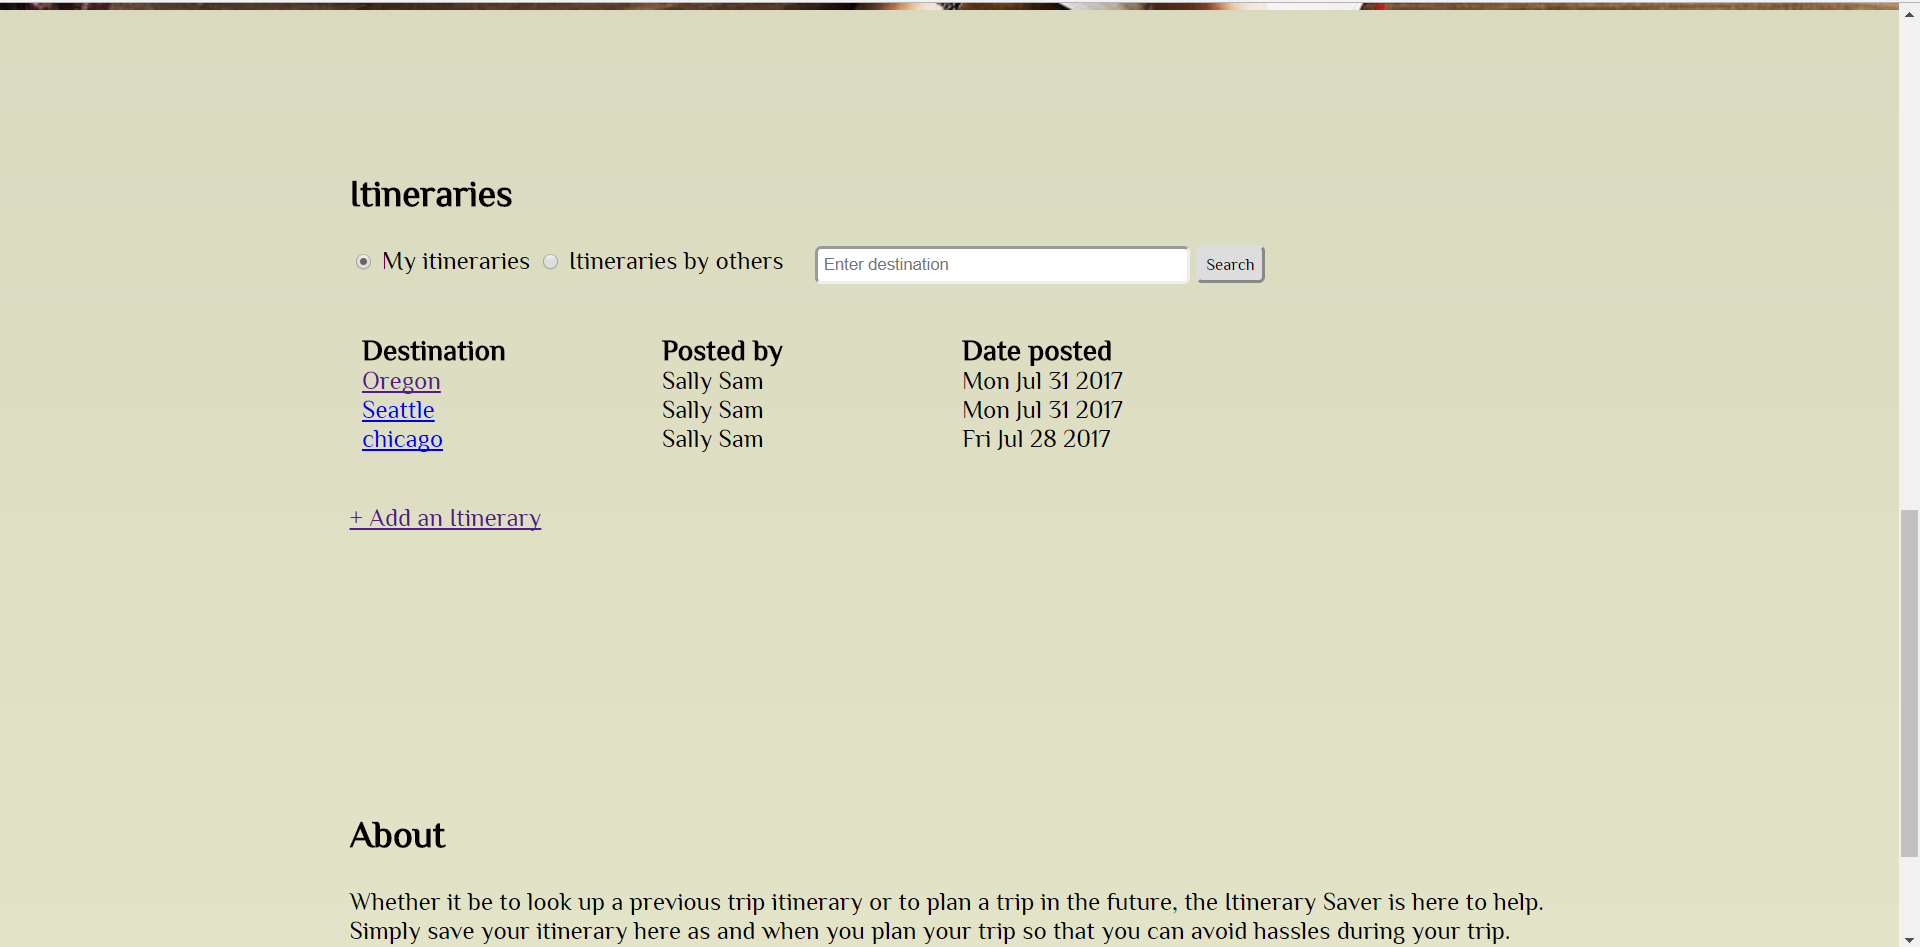
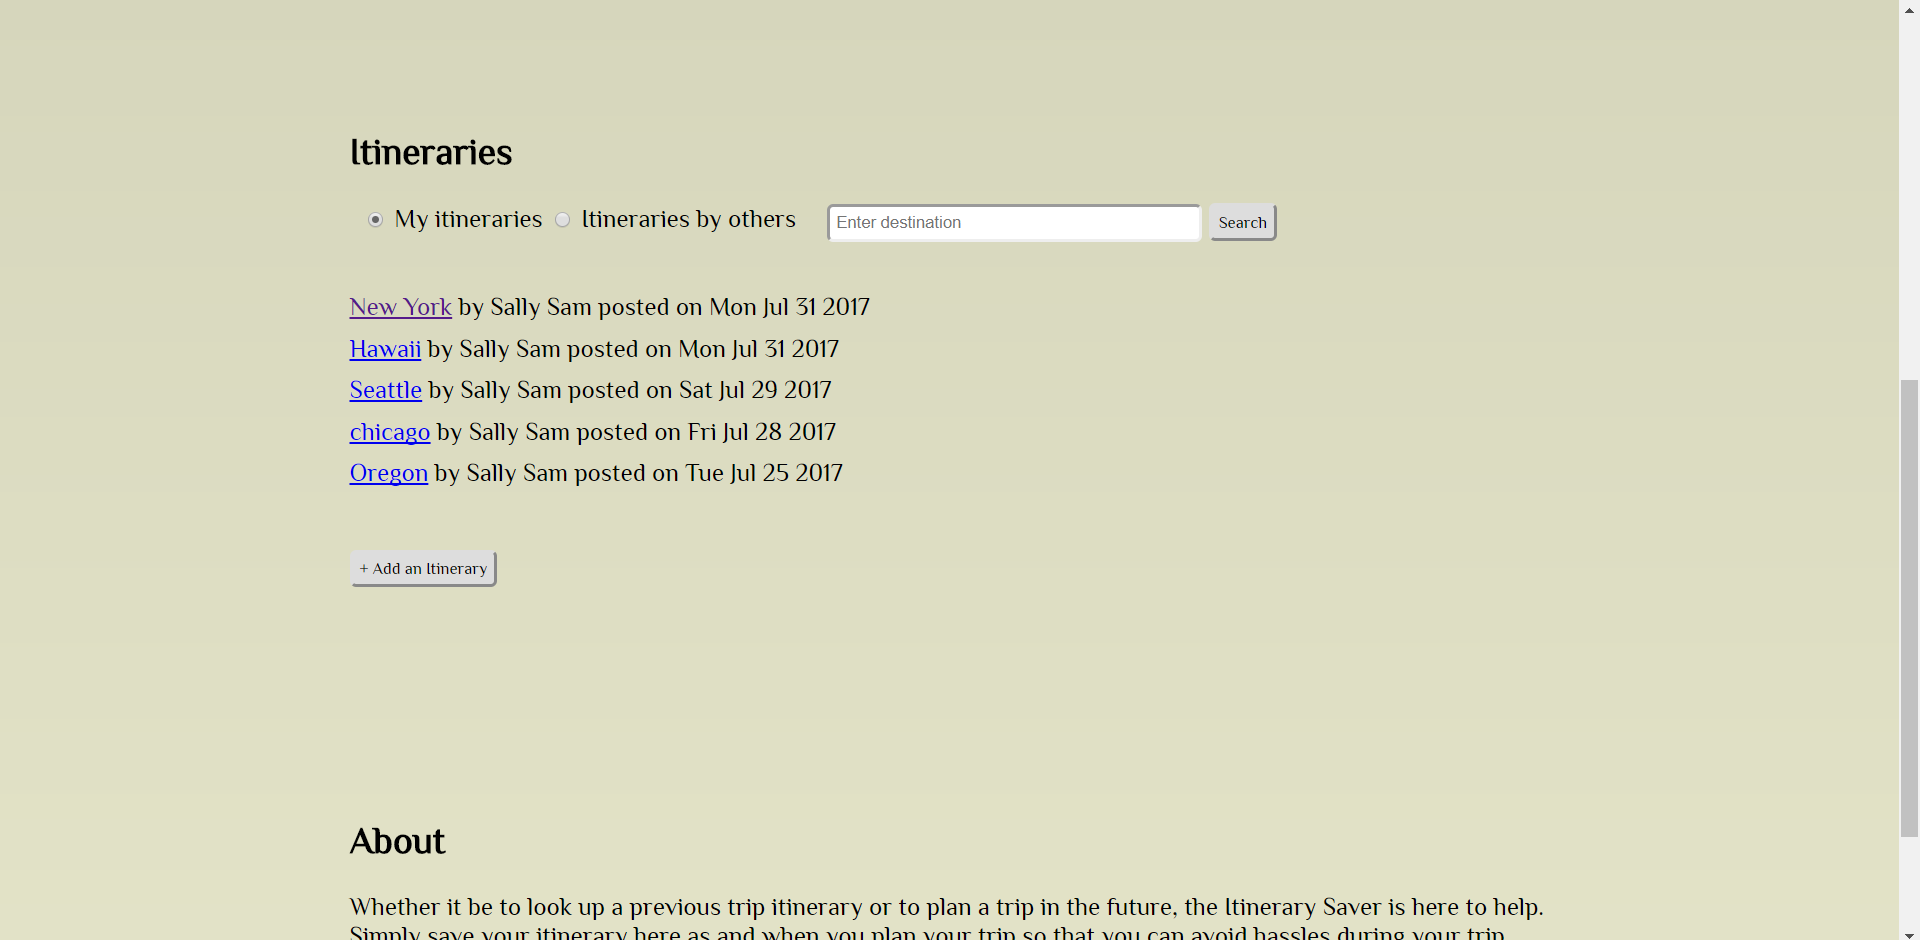
added feedback changes

diff --git a/public/index.html b/public/index.html
@@ -19,45 +19,36 @@
 		</div>
 	</header>
 	<main>
-		<img src="images/bgImage.jpg">
+		<div class="bg"></div>
 		<section id="itineraries">
 			<div class="row">
 				<h2>Itineraries</h2>
-				<input type="radio" name="itinerary" id="radio1" value="myitinerary" checked>
-				<label>My itineraries</label>
-				<input type="radio" name="itinerary" id="radio2" value="otheritinerary">
-				<label>Itineraries by others</label>
-				<form class="js-search">
-					<input type="text" name="search" class="js-input" placeholder="Enter destination">			
-					<button type="submit" name="submit" id="search">Search</button>
-				</form>
+				<div class="col-12">
+					<input type="radio" name="itinerary" id="radio1" value="myitinerary" checked>
+					<label>My itineraries</label>
+					<input type="radio" name="itinerary" id="radio2" value="otheritinerary">
+					<label>Itineraries by others</label>
+					<form class="js-search">
+						<input type="text" name="search" class="js-input" placeholder="Enter destination">			
+						<button type="submit" name="submit" id="search">Search</button>
+					</form>
+				</div>
 			</div>
-			<div class="js-itinerarylist">
+			<div class="js-itinerarylist"></div>
 			<div class="row">
-				<div class="col-3">
-					<h3>Destination</h3>
-				</div>
-				<div class="col-3">
-					<h3>Posted by</h3>
-				</div>
-				<div class="col-3">
-					<h3>Date posted</h3>
+				<div class="newitinerary">
+					<button class="js-addItin">+ Add an Itinerary</button>
+					<!--<a href="add-itinerary.html">+ Add an Itinerary</a>-->
+					<div class="newadded hidden">New Itinerary added !</div>
 				</div>
 			</div>
-		</div>
-		<div class="row">
-			<div class="newitinerary">
-				<a href="add-itinerary.html">+ Add an Itinerary</a>
-				<div class="newadded hidden">New Itinerary added !</div>
+		</section>
+		<section id="about">
+			<div class="row">
+				<h2>About</h2>
+				<p>Whether it be to look up a previous trip itinerary or to plan a trip in the future, the Itinerary Saver is here to help. Simply save your itinerary here as and when you plan your trip so that you can avoid hassles during your trip. Also, you can also take a look at itineraries posted by others and make sure you do not miss on the must do things.</p>
 			</div>
-		</div>
-	</section>
-	<section id="about">
-		<div class="row">
-			<h2>About</h2>
-			<p>Whether it be to look up a previous trip itinerary or to plan a trip in the future, the Itinerary Saver is here to help. Simply save your itinerary here as and when you plan your trip so that you can avoid hassles during your trip. Also, you can also take a look at itineraries posted by others and make sure you do not miss on the must do things.</p>
-		</div>
-	</section>
+		</section>
 	</main>
 	<script src="https://code.jquery.com/jquery-3.1.0.min.js"></script>
 	<script src="mockdata.js"></script>

diff --git a/public/add-itinerary.html b/public/add-itinerary.html
@@ -21,56 +21,56 @@
 		</div>
 		<form class="js-itinDetails">
 			<div class="row">
-				<div class="col-6">
+				<div class="col-9">
 					<label for="destination">Destination*</label>
 					<input type="text" name="destination" id="destination" required>
 				</div>
 			</div>
 			<div class="row">
-				<div class="col-6">
+				<div class="col-9">
 					<label for="days">Number of days*</label>
 					<input type="Number" name="days" id="days" min="1" required>
 				</div>
 			</div>
 			<div class="row">
-				<div class="col-6">
+				<div class="col-9">
 					<label for="pois">Points of Interest*</label>
 					<textarea class="smlTextArea" id="pois" name="pois" cols="40" rows="40" required></textarea>
 				</div>
 			</div>
 			<div class="row">
-				<div class="col-6">
+				<div class="col-9">
 					<label for="transport">Transportation Details</label>
 					<textarea class="lrgTextArea" id="transport" name="transport" cols="80" rows="100"></textarea>
 				</div>
 			</div>
 			<div class="row">
-				<div class="col-6">
+				<div class="col-9">
 					<label for="lodgedetails">Lodging Details</label>
 					<textarea class="lrgTextArea" id="lodgedetails" name="lodgedetails" cols="80" rows="100"></textarea>
 				</div>
 			</div>
 			<div class="row">
-				<div class="col-6">
+				<div class="col-9">
 					<label for="daywiseplan">Day-wise Plan</label>
 					<textarea class="lrgTextArea" id="daywiseplan" name="daywiseplan" cols="80" rows="100"></textarea>
 				</div>
 			</div>
 			<div class="row">
-				<div class="col-6">
+				<div class="col-9">
 					<label for="budget">Approximate Budget</label>
 					<input type="Number" name="budget" id="budget" placeholder="$">
 				</div>
 			</div>
 			<div class="row">
-				<div class="col-6">
+				<div class="col-9">
 					<label for="travelpartner">Did you use a travel partner?</label>
 					<input type="radio" name="travelpartner" id="choiceyes" value="yes" checked>Yes
 					<input type="radio" name="travelpartner" id="choiceno" value="no">No
 				</div>
 			</div>
 			<div class="row">
-				<div class="col-6">
+				<div class="col-9">
 					<label for="tpdetails">Travel Partner Details:</label>
 					<textarea class="smlTextArea" id="tpdetails" name="tpdetails" cols="40" rows="40" ></textarea>
 				</div>
@@ -80,7 +80,7 @@
 					<input type="submit" value="Submit" id="submit">
 				</div>
 				<div class="col-1">
-					<a href="index.html#itineraries">Cancel</a>
+					<button class="js-cancel">Cancel</button>
 				</div>
 			</div>
 		</form>

diff --git a/public/app.js b/public/app.js
@@ -41,13 +41,18 @@ var displayItineraries = function(data) {
 //Renders all filtered itineraries
 var renderItineraryList = function(itinList) {
 	var list='';
-	itinList.forEach(function(item) {
-		list += "<div class='row tRow'>"+
-				"<div class='col-3 js-destination' ><a href='itinerarydetails.html?id="+item.id+"'>" + item.destination + "</a></div>" +
-				"<div class='col-3'>" + item.poster + "</div>" +
-				"<div class='col-3'>" + new Date(item.postedDate).toDateString() + "</div>"+
-				"</div>";
-	});
+	if(itinList.length === 0) {
+		list = "<div class ='row tRow'>No results found.</div>"
+	}
+	else {
+		itinList.forEach(function(item) {
+			list += "<div class='row tRow'>"+
+					"<div class='col-9 js-destination' ><a href='itinerarydetails.html?id="+item.id+"'>" + item.destination + "</a>" +
+					" by " + item.poster +
+					" posted on " + new Date(item.postedDate).toDateString() + "</div>"+
+					"</div>";
+		});
+	}
 	$(".js-itinerarylist").append(list);
 }
 
@@ -71,10 +76,16 @@ $(function() {
 	}
 });
 
+$(".js-addItin").click(function(event) {
+    window.location.href = 'add-itinerary.html';
+});
+
 //Event listener for the radio input to filter itinerary list
 $("input[name='itinerary']").click(function(event) {
 	$(".tRow").remove();
 	getAndDisplayItineraries();
+	$('.js-input').val("");
+
 });
 
 //Event listener for search form that generates itinerary list for specified destination

diff --git a/public/main.css b/public/main.css
@@ -2,6 +2,14 @@
 	box-sizing: border-box;
 }
 
+.bg {
+	background-image: url('images/bgImage.jpg');
+	height:540px;
+	background-size: contain;
+	background-repeat: no-repeat;
+	background-position: center top;
+}
+
 body {
 	margin:0;
 	background-image: linear-gradient(rgba(0,0,0,0.2),
@@ -26,6 +34,10 @@ img {
 	width: 100%;
 }
 
+textarea, input {
+	max-width: 100%;
+}
+
 .links {
 	padding: 10px;
 	text-align: right;
@@ -37,7 +49,20 @@ img {
 }
 
 #about, #itineraries {
-	padding: 100px 0;
+	padding: 80px 0;
+}
+
+#destination, #days, #budget {
+	height: 30px;
+}
+
+.back {
+	padding-bottom: 100px;
+}
+
+.js-destination {
+	margin-bottom: 10px;
+	
 }
 
 .newitinerary {
@@ -61,7 +86,7 @@ img {
 	border-radius: 5px;
 }
 
-#search {
+#search, .js-addItin {
 	height: 30px;
 	border-radius: 5px;
 	font-family: 'Philosopher', sans-serif;
@@ -100,12 +125,12 @@ img {
 	overflow-y: scroll;
 }
 
-#submit {
+#submit, .js-cancel {
 	display: block;
-	width: 80px;
 	height:30px;
 	border-radius: 5px;
 	font-family: 'Philosopher', sans-serif;
+	padding:0 10px;
 }
 
 #destination {

diff --git a/public/mockdata.js b/public/mockdata.js
@@ -1,8 +1,8 @@
 const MY_POSTER_ID = 11;
 const MY_POSTER_FNAME = "Sally";
 const MY_POSTER_LNAME = "Sam";
-var API_URL = "https://fast-savannah-13472.herokuapp.com";
-
+//var API_URL = "https://fast-savannah-13472.herokuapp.com";
+var API_URL = "http://localhost:8080";
 //extracts query string values
 var parseQueryString = function( queryString ) {
     var params = {}, queries, temp, i, l;

diff --git a/public/additinerary.js b/public/additinerary.js
@@ -17,6 +17,10 @@ var renderNewItineraryAdded = function(data) {
     window.location.href = 'index.html?newadded=true';
 };
 
+$(".js-cancel").click(function(event) {
+    window.location.href = 'index.html#itineraries';
+});
+
 //Event listener for travel partner 'no' radio input 
 $("#choiceno").click(function(event) {
 	$("#tpdetails").attr("disabled", true);

diff --git a/public/float-grid.css b/public/float-grid.css
@@ -53,7 +53,7 @@
 
 /* Non-mobile, grid */
 @media only screen and (min-width: 640px) {
-  .col-1{
+  .col-1 {
     width:12.5%;
   }
 
@@ -72,9 +72,14 @@
     width: 50%;
   }
 
+  .col-9 {
+    width: 75%;
+  }
   /* 12 columns */
   .col-12 {
     width: 100%;
   } 
 }
+
+
 

diff --git a/public/itinerarydetails.html b/public/itinerarydetails.html
@@ -16,7 +16,7 @@
 	</header>
 	<section>
 		<div class="js-itinerarydetails"></div>
-		<div class="row">
+		<div class="row back">
 			<a href="index.html#itineraries">Back </a>
 		</div>
 	</section>
